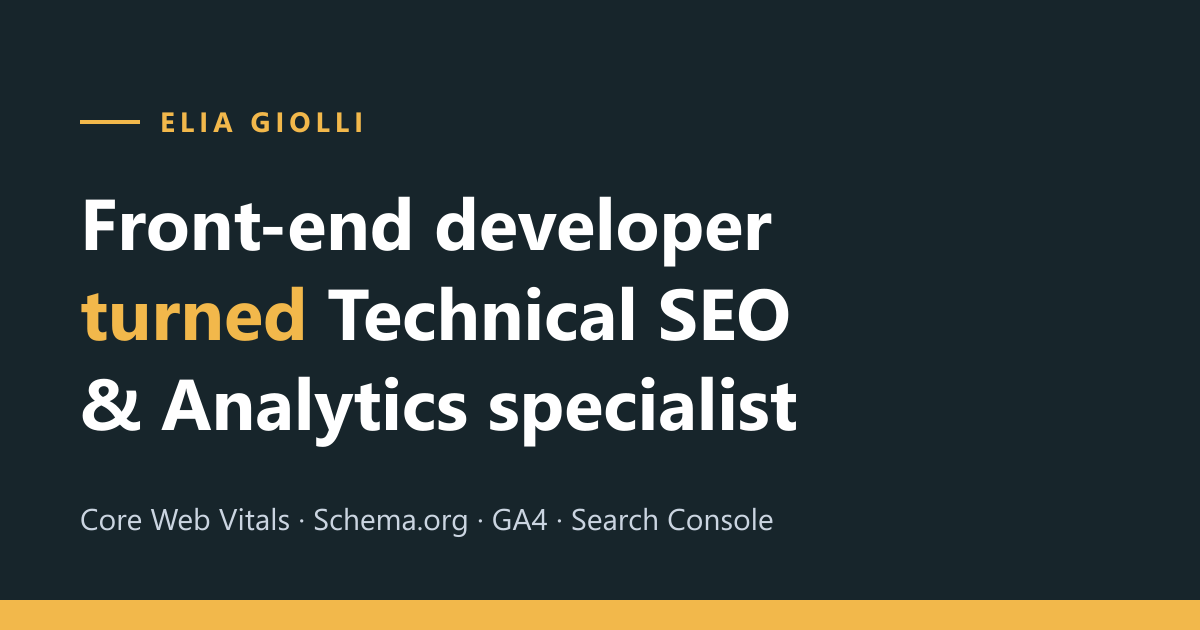
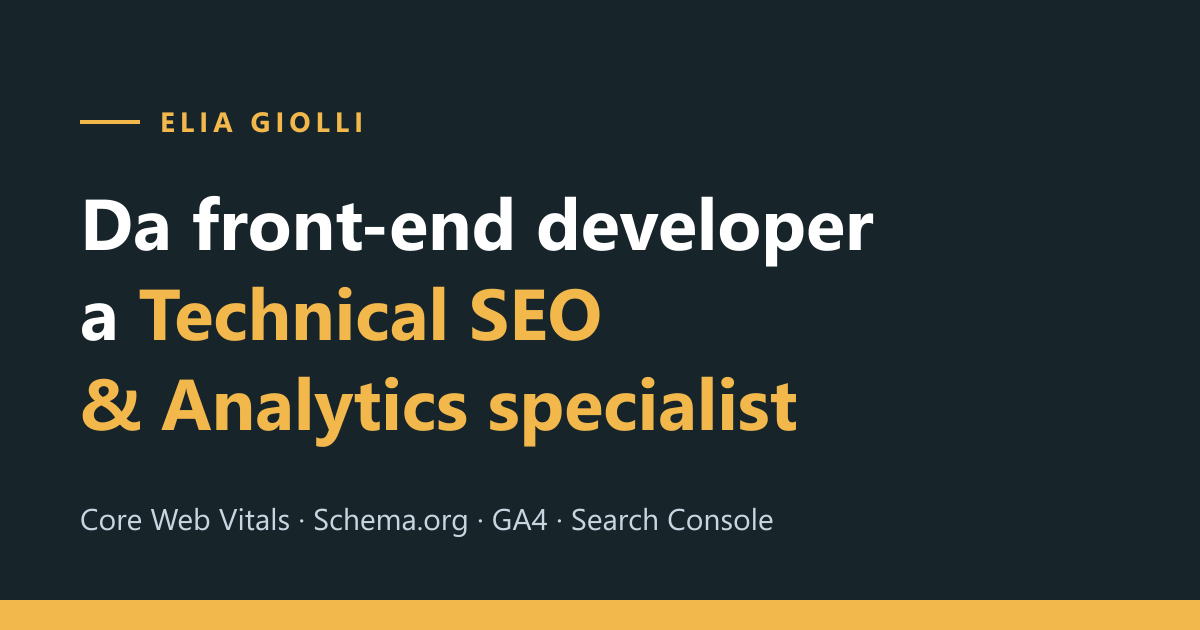
Italian headline, production domain and GA4 measurement ID
- Replace "turned" with the Italian "Da front-end developer a Technical SEO & Analytics specialist"
  in hero, tagline, CV, meta description, OG image and README
- Use a clean JOB_TITLE for the Person JSON-LD
- Set site to https://elia-giolli-portfolio-astro.vercel.app (canonical, sitemap, robots, RSS, OG)
- Wire GA4 ID G-V8J1ESE2BC through the existing consent banner, production builds only,
  with PUBLIC_GA_MEASUREMENT_ID as optional override

Changed region(s): [[0.0617, 0.3016, 0.74, 0.4222], [0.0617, 0.6032, 0.6783, 0.7238], [0.0617, 0.4524, 0.6783, 0.5429]]

diff --git a/src/shared/utils/constants.ts b/src/shared/utils/constants.ts
@@ -1,7 +1,8 @@
 export const AUTHOR_NAME = "Elia Giolli"
 export const BLOG_NAME = "Elia Giolli"
-export const SITE_TAGLINE = "Front-end developer turned Technical SEO & Analytics specialist"
-export const SITE_DESCRIPTION = "Elia Giolli, front-end developer diventato Technical SEO & Analytics specialist: Core Web Vitals, HTML semantico, dati strutturati, Google Analytics 4 e Search Console."
+export const SITE_TAGLINE = "Da front-end developer a Technical SEO & Analytics specialist"
+export const JOB_TITLE = "Technical SEO & Analytics specialist"
+export const SITE_DESCRIPTION = "Elia Giolli: da front-end developer a Technical SEO & Analytics specialist. Core Web Vitals, HTML semantico, dati strutturati, Google Analytics 4 e Search Console."
 export const SITE_LOCALE = "it_IT"
 export const LOGO_ALT_TEXT = "Il logo del portfolio"
 
@@ -23,3 +24,6 @@ export const NAV_LINKS = [
 export const CONTACT_LINK = { label: "Contatti", href: "/#contact" } as const
 
 export const CONSENT_STORAGE_KEY = "analytics-consent"
+
+// GA4 measurement IDs are public by design (they ship in every page): not a secret.
+export const GA_MEASUREMENT_ID = "G-V8J1ESE2BC"

diff --git a/src/shared/utils/analytics.ts b/src/shared/utils/analytics.ts
@@ -1,0 +1,9 @@
+import { GA_MEASUREMENT_ID } from "./constants";
+
+/**
+ * The GA4 ID the site actually uses. Empty outside production builds, so visits from
+ * `astro dev` never reach the real property; the env variable can override the default.
+ */
+export const ANALYTICS_ID: string = import.meta.env.PROD
+	? import.meta.env.PUBLIC_GA_MEASUREMENT_ID || GA_MEASUREMENT_ID
+	: "";

diff --git a/README.md b/README.md
@@ -1,12 +1,12 @@
 # Elia Giolli · Portfolio
 
-Portfolio personale di Elia Giolli, **front-end developer turned Technical SEO & Analytics specialist**.
+Portfolio personale di Elia Giolli, **da front-end developer a Technical SEO & Analytics specialist**.
 
 Il sito racconta il passaggio dallo sviluppo web alla SEO tecnica e alla web analytics attraverso case studies documentati e un blog i cui articoli vengono poi ripresi e riscritti per LinkedIn.
 
 ## ✦ Esperienza
 
-- **Hero**: posizionamento "developer turned SEO", competenze, CTA verso case studies, blog e CV.
+- **Hero**: posizionamento "da developer a SEO", competenze, CTA verso case studies, blog e CV.
 - **Profilo**: il percorso lingue → codice → supporto IT → SEO.
 - **Case studies** (`/case-studies`): collection `caseStudies`, con sfida, approccio, risultato e il racconto completo.
 - **Blog** (`/blog`): collection `blog`, con tempo di lettura, JSON-LD `BlogPosting`, feed RSS e link al post LinkedIn.
@@ -49,7 +49,7 @@ I case studies (`src/content/case-studies/<slug>.md`) usano invece `challenge`, 
 ## 🚀 Dopo il primo deploy su Vercel
 
 1. Aggiorna `site` in `astro.config.mjs` con l'URL reale (canonical, sitemap, robots, RSS e OG dipendono da lì).
-2. Crea una proprietà GA4 e imposta `PUBLIC_GA_MEASUREMENT_ID` nelle variabili d'ambiente di Vercel.
+2. GA4 è già configurato con l'ID `G-V8J1ESE2BC` (`GA_MEASUREMENT_ID` in `constants.ts`), attivo solo nelle build di produzione. `PUBLIC_GA_MEASUREMENT_ID` serve solo come override.
 3. In Search Console aggiungi la proprietà con il metodo "tag HTML", copia il valore `content` in `PUBLIC_GOOGLE_SITE_VERIFICATION`, rifai il deploy e invia `/sitemap-index.xml`.
 4. Misura la baseline con PageSpeed Insights e aggiungi i numeri al case study dell'audit.
 
@@ -118,7 +118,7 @@ Il form usa EmailJS quando sono presenti queste variabili pubbliche. In assenza 
 PUBLIC_EMAILJS_SERVICE_ID=your_service_id
 PUBLIC_EMAILJS_TEMPLATE_ID=your_template_id
 PUBLIC_EMAILJS_PUBLIC_KEY=your_public_key
-PUBLIC_GA_MEASUREMENT_ID=G-XXXXXXXXXX
+PUBLIC_GA_MEASUREMENT_ID=          # opzionale: sovrascrive l'ID GA4 nel codice
 PUBLIC_GOOGLE_SITE_VERIFICATION=
 ```
 
